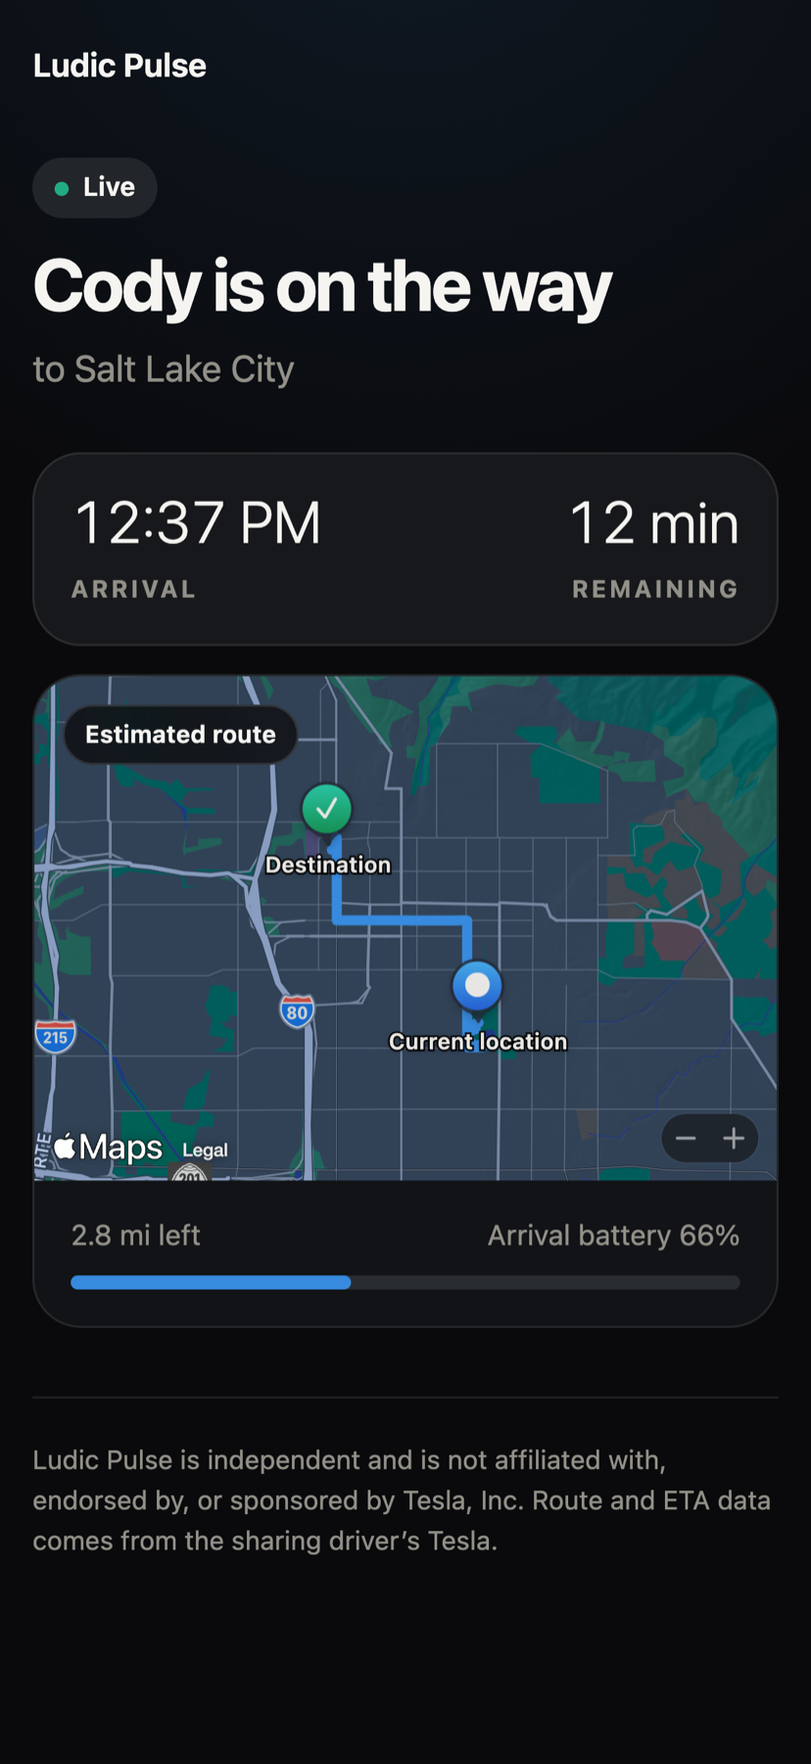
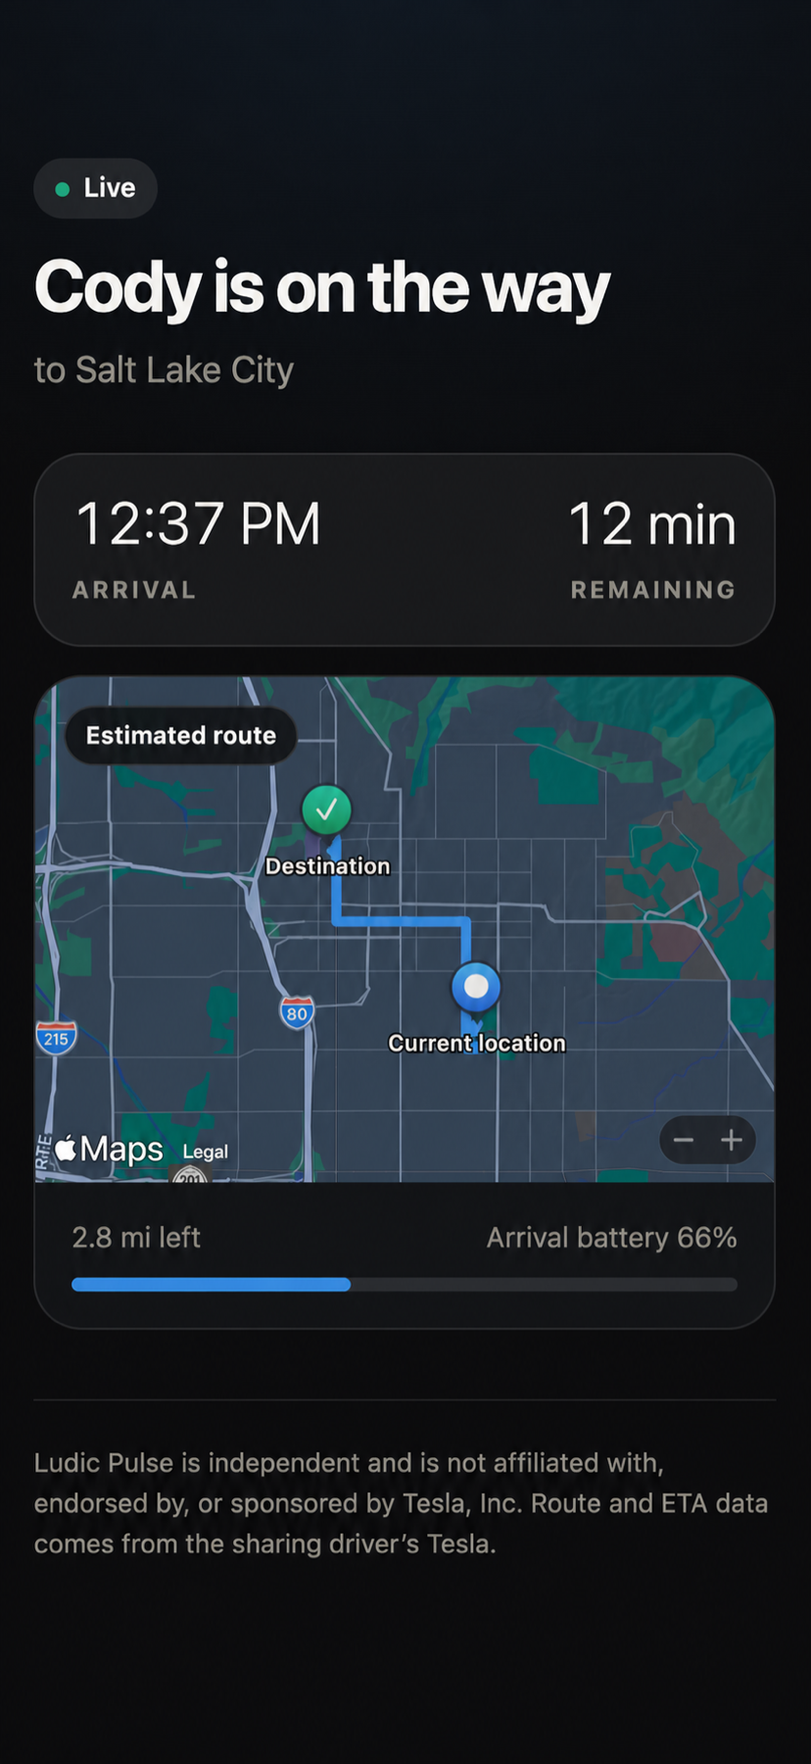
Add demo Drive History to showcase

diff --git a/eta/styles.css b/eta/styles.css
@@ -1,1 +1,1 @@
-@keyframes spin{to{transform:rotate(360deg)}}:root{color-scheme:dark;--bg:#0a0a0c;--card:#17181b;--raised:#111316;--line:rgba(255, 255, 255, 0.09);--text:#f5f4f1;--sub:#929088;--green:#21ad81;--blue:#378add;--amber:#ef9f27}*{box-sizing:border-box}html{background:var(--bg)}body{margin:0;background:radial-gradient(circle at 50% -10%,rgba(55,138,221,.12),transparent 38%),var(--bg);color:var(--text);font:16px/1.5 -apple-system,BlinkMacSystemFont,"Segoe UI",sans-serif}.shell{width:min(100%,680px);min-height:100vh;margin:auto;padding:calc(20px + env(safe-area-inset-top)) 20px calc(30px + env(safe-area-inset-bottom))}.brand,.chip{align-items:center;font-weight:650}.brand{display:flex;gap:10px;letter-spacing:-.01em}.brand img{border-radius:8px}.chip{display:inline-flex;min-height:30px;margin:34px 0 14px;padding:5px 11px;border-radius:999px;background:#22252a;color:var(--text);font-size:13px}.chip:before{content:"";width:7px;height:7px;margin-right:7px;border-radius:50%;background:var(--green)}.chip.delayed:before{background:var(--amber)}h1{font-size:clamp(34px,9vw,50px);line-height:1.03;letter-spacing:-.04em;margin:0;max-width:14ch}.destination{color:var(--sub);font-size:18px;margin:10px 0 0}.hero-card{display:grid;grid-template-columns:1fr 1fr;gap:16px;margin-top:28px;padding:22px;border:1px solid var(--line);border-radius:24px;background:var(--card)}.hero-card div:last-child{text-align:right}.hero-card strong{display:block;font-size:clamp(28px,8vw,42px);line-height:1.1;font-weight:300;font-variant-numeric:tabular-nums}.hero-card span{display:block;color:var(--sub);font-size:12px;font-weight:700;letter-spacing:.12em;margin-top:8px}.map-wrap{position:relative;overflow:hidden;margin-top:14px;border:1px solid var(--line);border-radius:24px;background:var(--raised)}.map,.map-unavailable,.route{display:block;width:100%;height:min(52vw,330px);min-height:250px}.map,.route{background:linear-gradient(145deg,#101a29,#0c1017)}.map-unavailable{display:flex;flex-direction:column;align-items:center;justify-content:center;gap:6px;padding:24px;text-align:center;background:#11151b}.map-unavailable strong{font-size:17px}.map-unavailable span{color:var(--sub);font-size:14px}.route-background,.route-line{fill:none;stroke-linecap:round;stroke-linejoin:round}.route-background{stroke:#303944;stroke-width:13}.route-line{stroke:var(--blue);stroke-width:8}.car-marker{fill:var(--text);stroke:var(--blue);stroke-width:7}.destination-marker{fill:var(--blue);stroke:var(--text);stroke-width:4}.route-source{position:absolute;z-index:2;top:14px;left:14px;min-height:28px;padding:5px 10px;border:1px solid rgba(255,255,255,.12);border-radius:999px;background:rgba(10,10,12,.78);color:var(--text);font-size:12px;font-weight:650;backdrop-filter:blur(10px)}.details>div,.progress-labels{display:flex;justify-content:space-between;gap:12px}.progress-labels{padding:16px 18px 10px;color:var(--sub);font-size:14px}.progress{height:7px;margin:0 18px 18px;overflow:hidden;border-radius:5px;background:#292c31}.progress span{display:block;width:0;height:100%;border-radius:5px;background:var(--blue);transition:width .35s ease}.details{display:grid;gap:1px;margin-top:14px;overflow:hidden;border:1px solid var(--line);border-radius:20px;background:var(--line)}.details>div{padding:15px 17px;background:var(--card)}.details span,.privacy,.status p,footer{color:var(--sub)}.details strong{font-weight:600;text-align:right}.privacy,footer{font-size:13px;line-height:1.55}.privacy{margin:18px 2px}footer{margin-top:34px;padding-top:20px;border-top:1px solid var(--line)}.status{display:flex;min-height:62vh;flex-direction:column;align-items:center;justify-content:center;text-align:center}.status h1{font-size:32px;margin-top:18px}.status p{max-width:38ch}.spinner{width:34px;height:34px;border:3px solid #2c2f34;border-top-color:var(--blue);border-radius:50%;animation:spin .8s linear infinite}.terminal-icon{display:grid;width:58px;height:58px;place-items:center;border-radius:50%;background:#182a25;color:var(--green);font-size:25px;font-weight:700}@media (max-width:420px){.shell{padding-left:16px;padding-right:16px}.hero-card{padding:18px}.hero-card strong{font-size:29px}}@media (prefers-reduced-motion:reduce){*,:after,:before{scroll-behavior:auto!important;animation:none!important;transition:none!important}}:where([hidden]){display:none!important}
+@keyframes spin{to{transform:rotate(360deg)}}:root{color-scheme:dark;--bg:#0a0a0c;--card:#17181b;--raised:#111316;--line:rgba(255, 255, 255, 0.09);--text:#f5f4f1;--sub:#929088;--green:#21ad81;--blue:#378add;--amber:#ef9f27}*{box-sizing:border-box}html{background:var(--bg)}body{margin:0;background:radial-gradient(circle at 50% -10%,rgba(55,138,221,.12),transparent 38%),var(--bg);color:var(--text);font:16px/1.5 -apple-system,BlinkMacSystemFont,"Segoe UI",sans-serif}.shell{width:min(100%,680px);min-height:100vh;margin:auto;padding:calc(20px + env(safe-area-inset-top)) 20px calc(30px + env(safe-area-inset-bottom))}.chip{display:inline-flex;align-items:center;font-weight:650;min-height:30px;margin:34px 0 14px;padding:5px 11px;border-radius:999px;background:#22252a;color:var(--text);font-size:13px}.chip:before{content:"";width:7px;height:7px;margin-right:7px;border-radius:50%;background:var(--green)}.chip.delayed:before{background:var(--amber)}h1{font-size:clamp(34px,9vw,50px);line-height:1.03;letter-spacing:-.04em;margin:0;max-width:14ch}.destination{color:var(--sub);font-size:18px;margin:10px 0 0}.hero-card{display:grid;grid-template-columns:1fr 1fr;gap:16px;margin-top:28px;padding:22px;border:1px solid var(--line);border-radius:24px;background:var(--card)}.hero-card div:last-child{text-align:right}.hero-card strong{display:block;font-size:clamp(28px,8vw,42px);line-height:1.1;font-weight:300;font-variant-numeric:tabular-nums}.hero-card span{display:block;color:var(--sub);font-size:12px;font-weight:700;letter-spacing:.12em;margin-top:8px}.map-wrap{position:relative;overflow:hidden;margin-top:14px;border:1px solid var(--line);border-radius:24px;background:var(--raised)}.map,.map-unavailable,.route{display:block;width:100%;height:min(52vw,330px);min-height:250px}.map,.route{background:linear-gradient(145deg,#101a29,#0c1017)}.map-unavailable{display:flex;flex-direction:column;align-items:center;justify-content:center;gap:6px;padding:24px;text-align:center;background:#11151b}.map-unavailable strong{font-size:17px}.map-unavailable span{color:var(--sub);font-size:14px}.route-background,.route-line{fill:none;stroke-linecap:round;stroke-linejoin:round}.route-background{stroke:#303944;stroke-width:13}.route-line{stroke:var(--blue);stroke-width:8}.car-marker{fill:var(--text);stroke:var(--blue);stroke-width:7}.destination-marker{fill:var(--blue);stroke:var(--text);stroke-width:4}.route-source{position:absolute;z-index:2;top:14px;left:14px;min-height:28px;padding:5px 10px;border:1px solid rgba(255,255,255,.12);border-radius:999px;background:rgba(10,10,12,.78);color:var(--text);font-size:12px;font-weight:650;backdrop-filter:blur(10px)}.details>div,.progress-labels{display:flex;justify-content:space-between;gap:12px}.progress-labels{padding:16px 18px 10px;color:var(--sub);font-size:14px}.progress{height:7px;margin:0 18px 18px;overflow:hidden;border-radius:5px;background:#292c31}.progress span{display:block;width:0;height:100%;border-radius:5px;background:var(--blue);transition:width .35s ease}.details{display:grid;gap:1px;margin-top:14px;overflow:hidden;border:1px solid var(--line);border-radius:20px;background:var(--line)}.details>div{padding:15px 17px;background:var(--card)}.details span,.privacy,.status p,footer{color:var(--sub)}.details strong{font-weight:600;text-align:right}.privacy,footer{font-size:13px;line-height:1.55}.privacy{margin:18px 2px}footer{margin-top:34px;padding-top:20px;border-top:1px solid var(--line)}.status{display:flex;min-height:62vh;flex-direction:column;align-items:center;justify-content:center;text-align:center}.status h1{font-size:32px;margin-top:18px}.status p{max-width:38ch}.spinner{width:34px;height:34px;border:3px solid #2c2f34;border-top-color:var(--blue);border-radius:50%;animation:spin .8s linear infinite}.terminal-icon{display:grid;width:58px;height:58px;place-items:center;border-radius:50%;background:#182a25;color:var(--green);font-size:25px;font-weight:700}@media (max-width:420px){.shell{padding-left:16px;padding-right:16px}.hero-card{padding:18px}.hero-card strong{font-size:29px}}@media (prefers-reduced-motion:reduce){*,:after,:before{scroll-behavior:auto!important;animation:none!important;transition:none!important}}:where([hidden]){display:none!important}

diff --git a/terms/index.html b/terms/index.html
@@ -1,7 +1,7 @@
 <!doctype html>
 <html lang="en"><head><meta charset="utf-8"><meta name="viewport" content="width=device-width,initial-scale=1">
 <meta name="description" content="Terms for the Ludic Pulse iOS app and cloud service."><meta name="color-scheme" content="dark">
-<link rel="icon" href="data:,"><title>Terms · Ludic Pulse</title><link rel="stylesheet" href="/styles.css?v=20260829-pulse-hook-v1"><script defer src="/site.js?v=20260829-pulse-hook-v1"></script></head><body><a class="skip-link" href="#main">Skip to content</a><header class="site-header" data-header><div class="nav-shell"><a class="brand" href="/" aria-label="Ludic Technologies home"><img src="/assets/ludic-technologies-wordmark.png" alt="Ludic Technologies" width="1130" height="302"></a><div class="nav-actions"><nav id="site-nav" class="site-nav" aria-label="Main navigation" data-menu><a href="/">Pulse</a><a href="/hub/">Hub <span class="nav-note">Upcoming</span></a><a href="/support/">Support</a></nav><a class="nav-beta" href="/beta/">Join beta</a><button class="menu-button" type="button" aria-expanded="false" aria-controls="site-nav" data-menu-button><span class="sr-only">Open navigation</span><span></span><span></span></button></div></div></header><main id="main" class="content-main" tabindex="-1"><p class="eyebrow">Legal</p><h1>Ludic Pulse Terms of Use</h1><p class="sub">Effective August 16, 2026 · United States beta</p>
+<link rel="icon" href="data:,"><title>Terms · Ludic Pulse</title><link rel="stylesheet" href="/styles.css?v=20260829-carousel-10-v1"><script defer src="/site.js?v=20260829-carousel-10-v1"></script></head><body><a class="skip-link" href="#main">Skip to content</a><header class="site-header" data-header><div class="nav-shell"><a class="brand" href="/" aria-label="Ludic Technologies home"><img src="/assets/ludic-technologies-wordmark.png" alt="Ludic Technologies" width="1130" height="302"></a><div class="nav-actions"><nav id="site-nav" class="site-nav" aria-label="Main navigation" data-menu><a href="/">Pulse</a><a href="/hub/">Hub <span class="nav-note">Upcoming</span></a><a href="/support/">Support</a></nav><a class="nav-beta" href="/beta/">Join beta</a><button class="menu-button" type="button" aria-expanded="false" aria-controls="site-nav" data-menu-button><span class="sr-only">Open navigation</span><span></span><span></span></button></div></div></header><main id="main" class="content-main" tabindex="-1"><p class="eyebrow">Legal</p><h1>Ludic Pulse Terms of Use</h1><p class="sub">Effective August 16, 2026 · United States beta</p>
 <h2>Agreement</h2><p>These Terms are an agreement between you and Ludic Technologies LLC for your use of Ludic Pulse. By using Ludic Pulse, you agree to these Terms and the <a href="/privacy/">Privacy Policy</a>. Apple's Standard Licensed Application End User License Agreement also applies to the iOS app. If you do not agree, do not use Ludic Pulse.</p>
 <h2>Eligibility and authorization</h2><p>You must be at least 18 and authorized to access every Tesla account, vehicle, charging location, and network you connect. Do not use another person's vehicle data or issue commands without permission.</p>
 <h2>Independent service</h2><p>Ludic Pulse is an independent third-party client. It is not affiliated with, endorsed by, or sponsored by Tesla, Inc. Tesla may change or discontinue its services, permissions, pricing, commands, or vehicle capabilities at any time.</p>

diff --git a/index.html b/index.html
@@ -20,8 +20,8 @@
   <link rel="preload" href="/assets/ludic-technologies-wordmark.png" as="image">
   <link rel="preload" href="/assets/screens/showcase/01-car.png" as="image">
   <script>document.documentElement.classList.add('js')</script>
-  <link rel="stylesheet" href="/styles.css?v=20260829-pulse-hook-v1">
-  <script defer src="/site.js?v=20260829-pulse-hook-v1"></script>
+  <link rel="stylesheet" href="/styles.css?v=20260829-carousel-10-v1">
+  <script defer src="/site.js?v=20260829-carousel-10-v1"></script>
   <title>Ludic Pulse — Tesla status, drives, charging, and ETA</title>
   <script type="application/ld+json">{"@context":"https://schema.org","@type":"SoftwareApplication","name":"Ludic Pulse","applicationCategory":"UtilitiesApplication","operatingSystem":"iOS","url":"https://ludicpulse.com/","publisher":{"@type":"Organization","name":"Ludic Technologies LLC"}}</script>
 </head>
@@ -59,7 +59,8 @@
         <div class="phone phone-single carousel-phone">
           <div class="carousel-stage">
             <img class="carousel-screen is-active" data-screen-title="Car status" src="/assets/screens/showcase/01-car.png" alt="Ludic Pulse Car screen with battery, range, and vehicle status" width="828" height="1800" fetchpriority="high">
-            <img class="carousel-screen" data-screen-title="Drive history" src="/assets/screens/showcase/02-drives.png" alt="Ludic Pulse Drives screen with distance, time, efficiency, and weekly charts" width="828" height="1800" aria-hidden="true">
+            <img class="carousel-screen" data-screen-title="Drive overview" src="/assets/screens/showcase/02-drives.png" alt="Ludic Pulse Drives overview with distance, time, efficiency, and weekly charts" width="828" height="1800" aria-hidden="true">
+            <img class="carousel-screen" data-screen-title="Drive history" src="/assets/screens/showcase/10-drive-history.png" alt="Ludic Pulse Drive History screen with demo trips searchable by date or place" width="828" height="1800" aria-hidden="true">
             <img class="carousel-screen" data-screen-title="Charging session" src="/assets/screens/showcase/03-charging.png" alt="Ludic Pulse live charging session with battery, power, target, and ETA" width="828" height="1800" aria-hidden="true">
             <img class="carousel-screen" data-screen-title="Charging Live Activity" src="/assets/screens/showcase/04-charging-lockscreen.jpg" alt="iPhone Lock Screen showing the Ludic Pulse charging Live Activity" width="828" height="1800" aria-hidden="true">
             <img class="carousel-screen" data-screen-title="Shared ETA" src="/assets/screens/showcase/05-share-eta.png" alt="Ludic Pulse Shared ETA screen with recipient privacy controls" width="828" height="1800" aria-hidden="true">
@@ -74,7 +75,7 @@
           <button type="button" data-screen-previous aria-label="Show previous screen">←</button>
           <div class="carousel-position">
             <div class="carousel-dots" data-screen-dots role="group" aria-label="Choose a screen"></div>
-            <span class="carousel-count" data-screen-count>1 of 9</span>
+            <span class="carousel-count" data-screen-count>1 of 10</span>
           </div>
           <button type="button" data-screen-next aria-label="Show next screen">→</button>
         </div>

diff --git a/pulse/index.html b/pulse/index.html
@@ -20,8 +20,8 @@
   <link rel="preload" href="/assets/ludic-technologies-wordmark.png" as="image">
   <link rel="preload" href="/assets/screens/showcase/01-car.png" as="image">
   <script>document.documentElement.classList.add('js')</script>
-  <link rel="stylesheet" href="/styles.css?v=20260829-pulse-hook-v1">
-  <script defer src="/site.js?v=20260829-pulse-hook-v1"></script>
+  <link rel="stylesheet" href="/styles.css?v=20260829-carousel-10-v1">
+  <script defer src="/site.js?v=20260829-carousel-10-v1"></script>
   <title>Ludic Pulse — Tesla status, drives, charging, and ETA</title>
   <script type="application/ld+json">{"@context":"https://schema.org","@type":"SoftwareApplication","name":"Ludic Pulse","applicationCategory":"UtilitiesApplication","operatingSystem":"iOS","url":"https://ludicpulse.com/","publisher":{"@type":"Organization","name":"Ludic Technologies LLC"}}</script>
 </head>
@@ -59,7 +59,8 @@
         <div class="phone phone-single carousel-phone">
           <div class="carousel-stage">
             <img class="carousel-screen is-active" data-screen-title="Car status" src="/assets/screens/showcase/01-car.png" alt="Ludic Pulse Car screen with battery, range, and vehicle status" width="828" height="1800" fetchpriority="high">
-            <img class="carousel-screen" data-screen-title="Drive history" src="/assets/screens/showcase/02-drives.png" alt="Ludic Pulse Drives screen with distance, time, efficiency, and weekly charts" width="828" height="1800" aria-hidden="true">
+            <img class="carousel-screen" data-screen-title="Drive overview" src="/assets/screens/showcase/02-drives.png" alt="Ludic Pulse Drives overview with distance, time, efficiency, and weekly charts" width="828" height="1800" aria-hidden="true">
+            <img class="carousel-screen" data-screen-title="Drive history" src="/assets/screens/showcase/10-drive-history.png" alt="Ludic Pulse Drive History screen with demo trips searchable by date or place" width="828" height="1800" aria-hidden="true">
             <img class="carousel-screen" data-screen-title="Charging session" src="/assets/screens/showcase/03-charging.png" alt="Ludic Pulse live charging session with battery, power, target, and ETA" width="828" height="1800" aria-hidden="true">
             <img class="carousel-screen" data-screen-title="Charging Live Activity" src="/assets/screens/showcase/04-charging-lockscreen.jpg" alt="iPhone Lock Screen showing the Ludic Pulse charging Live Activity" width="828" height="1800" aria-hidden="true">
             <img class="carousel-screen" data-screen-title="Shared ETA" src="/assets/screens/showcase/05-share-eta.png" alt="Ludic Pulse Shared ETA screen with recipient privacy controls" width="828" height="1800" aria-hidden="true">
@@ -74,7 +75,7 @@
           <button type="button" data-screen-previous aria-label="Show previous screen">←</button>
           <div class="carousel-position">
             <div class="carousel-dots" data-screen-dots role="group" aria-label="Choose a screen"></div>
-            <span class="carousel-count" data-screen-count>1 of 9</span>
+            <span class="carousel-count" data-screen-count>1 of 10</span>
           </div>
           <button type="button" data-screen-next aria-label="Show next screen">→</button>
         </div>

diff --git a/privacy/index.html b/privacy/index.html
@@ -1,7 +1,7 @@
 <!doctype html>
 <html lang="en"><head><meta charset="utf-8"><meta name="viewport" content="width=device-width,initial-scale=1">
 <meta name="description" content="How Ludic Pulse collects, uses, retains, and protects account, vehicle, location, and diagnostic data."><meta name="color-scheme" content="dark">
-<link rel="icon" href="data:,"><title>Privacy · Ludic Pulse</title><link rel="stylesheet" href="/styles.css?v=20260829-pulse-hook-v1"><script defer src="/site.js?v=20260829-pulse-hook-v1"></script></head><body><a class="skip-link" href="#main">Skip to content</a><header class="site-header" data-header><div class="nav-shell"><a class="brand" href="/" aria-label="Ludic Technologies home"><img src="/assets/ludic-technologies-wordmark.png" alt="Ludic Technologies" width="1130" height="302"></a><div class="nav-actions"><nav id="site-nav" class="site-nav" aria-label="Main navigation" data-menu><a href="/">Pulse</a><a href="/hub/">Hub <span class="nav-note">Upcoming</span></a><a href="/support/">Support</a></nav><a class="nav-beta" href="/beta/">Join beta</a><button class="menu-button" type="button" aria-expanded="false" aria-controls="site-nav" data-menu-button><span class="sr-only">Open navigation</span><span></span><span></span></button></div></div></header><main id="main" class="content-main" tabindex="-1"><p class="eyebrow">Privacy</p><h1>Ludic Pulse Privacy Policy</h1>
+<link rel="icon" href="data:,"><title>Privacy · Ludic Pulse</title><link rel="stylesheet" href="/styles.css?v=20260829-carousel-10-v1"><script defer src="/site.js?v=20260829-carousel-10-v1"></script></head><body><a class="skip-link" href="#main">Skip to content</a><header class="site-header" data-header><div class="nav-shell"><a class="brand" href="/" aria-label="Ludic Technologies home"><img src="/assets/ludic-technologies-wordmark.png" alt="Ludic Technologies" width="1130" height="302"></a><div class="nav-actions"><nav id="site-nav" class="site-nav" aria-label="Main navigation" data-menu><a href="/">Pulse</a><a href="/hub/">Hub <span class="nav-note">Upcoming</span></a><a href="/support/">Support</a></nav><a class="nav-beta" href="/beta/">Join beta</a><button class="menu-button" type="button" aria-expanded="false" aria-controls="site-nav" data-menu-button><span class="sr-only">Open navigation</span><span></span><span></span></button></div></div></header><main id="main" class="content-main" tabindex="-1"><p class="eyebrow">Privacy</p><h1>Ludic Pulse Privacy Policy</h1>
 <p class="sub">Effective August 29, 2026 · United States beta</p>
 <div class="card"><strong>The short version</strong><p>You can create a Ludic account with Apple and separately authorize Tesla vehicle access. We do not receive your Apple or Tesla password, sell personal data, run advertising, or use data to track you across other companies' apps or websites. Exact route history is optional.</p></div>
 <h2>Who this policy covers</h2><p>This policy explains how Ludic Technologies LLC provides Ludic Pulse and handles data in the iOS app, cloud service, and Live Activities. The service is currently offered to US beta users and is not directed to children under 13.</p>

diff --git a/eta/index.html b/eta/index.html
@@ -20,13 +20,12 @@
   <link rel="canonical" href="https://ludicpulse.com/eta/">
   <meta http-equiv="Content-Security-Policy" content="default-src 'none'; script-src 'self' https://cdn.apple-mapkit.com; worker-src blob:; style-src 'self' 'unsafe-inline'; img-src 'self' data: blob: https://*.apple-mapkit.com https://*.mzstatic.com; connect-src https://telem.statmask.com:8443 https://*.apple-mapkit.com https://*.ls.apple.com; font-src 'self'; base-uri 'none'; form-action 'none'">
   <link rel="icon" href="data:,">
-  <link rel="stylesheet" href="/eta/styles.css?v=20260819-clean">
+  <link rel="stylesheet" href="/eta/styles.css?v=20260829-no-brand">
   <title>Shared ETA · Ludic Pulse</title>
 </head>
 <body>
   <noscript><p>JavaScript is required to open this private live ETA.</p></noscript>
   <main class="shell">
-    <header class="brand"><span>Ludic Pulse</span></header>
     <section id="loading" class="status" aria-live="polite">
       <div class="spinner" aria-hidden="true"></div>
       <h1>Opening private ETA…</h1>

diff --git a/beta/index.html b/beta/index.html
@@ -19,8 +19,8 @@
   <link rel="icon" href="data:,">
   <link rel="preload" href="/assets/ludic-technologies-wordmark.png" as="image">
   <script>document.documentElement.classList.add('js')</script>
-  <link rel="stylesheet" href="/styles.css?v=20260829-pulse-hook-v1">
-  <script defer src="/site.js?v=20260829-pulse-hook-v1"></script>
+  <link rel="stylesheet" href="/styles.css?v=20260829-carousel-10-v1">
+  <script defer src="/site.js?v=20260829-carousel-10-v1"></script>
   <title>Join the private beta · Ludic Pulse</title>
 </head>
 <body>

diff --git a/hub/index.html b/hub/index.html
@@ -15,8 +15,8 @@
   <link rel="canonical" href="https://ludicpulse.com/hub/">
   <link rel="icon" href="data:,">
   <script>document.documentElement.classList.add('js')</script>
-  <link rel="stylesheet" href="/styles.css?v=20260829-pulse-hook-v1">
-  <script defer src="/site.js?v=20260829-pulse-hook-v1"></script>
+  <link rel="stylesheet" href="/styles.css?v=20260829-carousel-10-v1">
+  <script defer src="/site.js?v=20260829-carousel-10-v1"></script>
   <title>Ludic Hub — Keep dashcam footage up to x10 longer</title>
 </head>
 <body>

diff --git a/eta/app.test.js b/eta/app.test.js
@@ -28,7 +28,7 @@ test('keeps the recipient page focused and exposes a no-install link preview', (
   assert.match(pageSource, /name="twitter:card" content="summary_large_image"/);
   assert.match(pageSource, /rel="canonical" href="https:\/\/ludicpulse\.com\/eta\/"/);
   assert.doesNotMatch(pageSource, /#[A-Za-z0-9_-]{40,80}/);
-  assert.match(pageSource, /class="brand"><span>Ludic Pulse<\/span>/);
+  assert.doesNotMatch(pageSource, /class="brand"|<span>Ludic Pulse<\/span>/);
 });
 
 function element() {

diff --git a/support/index.html b/support/index.html
@@ -7,8 +7,8 @@
   <meta name="theme-color" content="#050506">
   <meta name="color-scheme" content="dark">
   <link rel="icon" href="data:,">
-  <link rel="stylesheet" href="/styles.css?v=20260829-pulse-hook-v1">
-  <script defer src="/site.js?v=20260829-pulse-hook-v1"></script>
+  <link rel="stylesheet" href="/styles.css?v=20260829-carousel-10-v1">
+  <script defer src="/site.js?v=20260829-carousel-10-v1"></script>
   <title>Support · Ludic Pulse</title>
 </head>
 <body>
